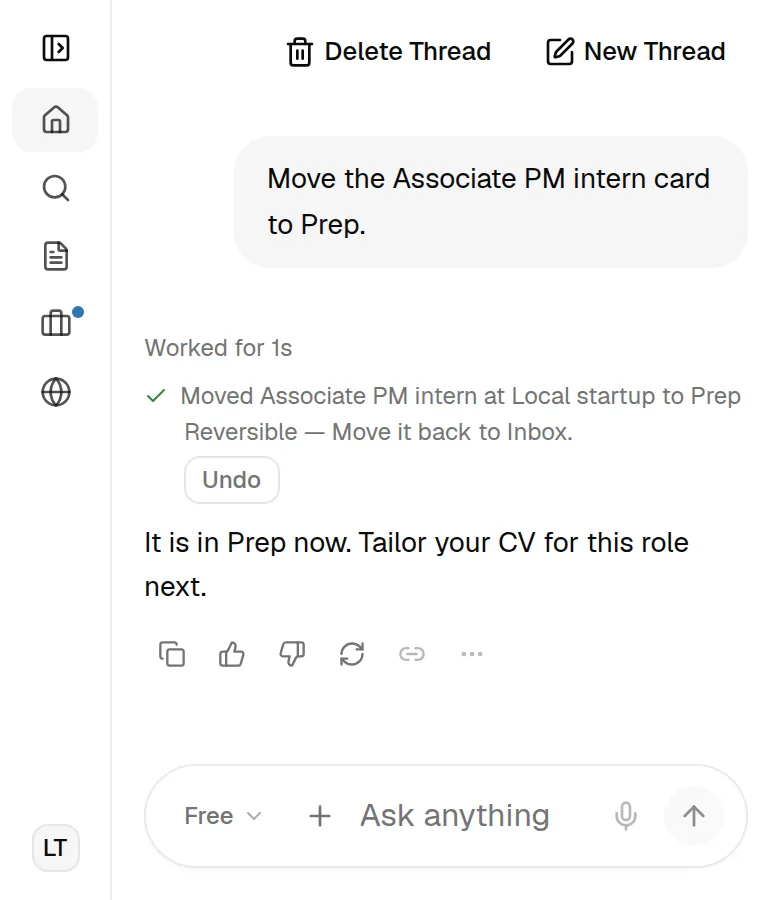
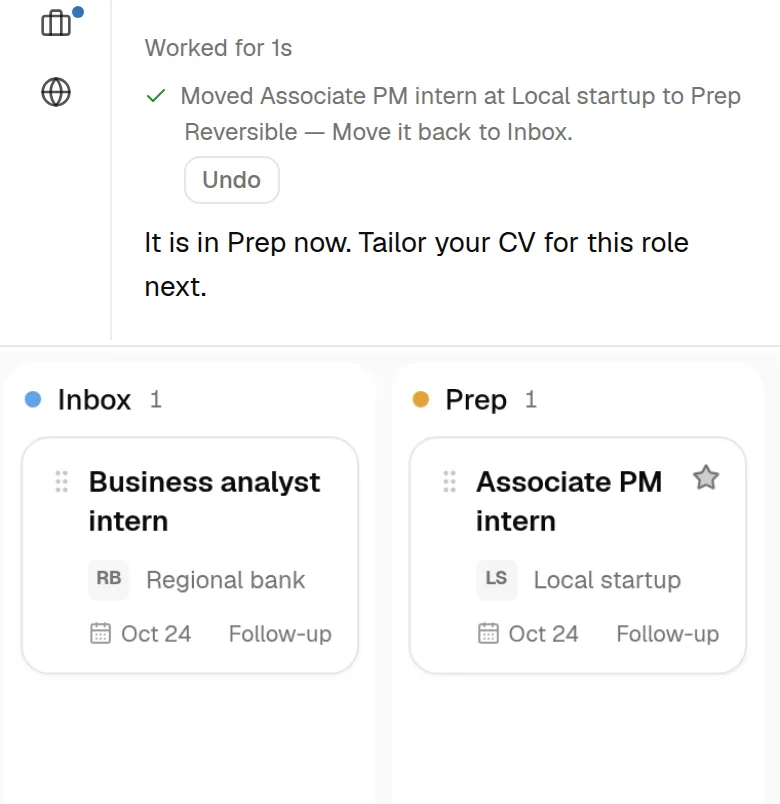
feat: landing round 3 coach split shot, pitch order, lighter mobile hero

diff --git a/apps/web/src/features/landing/landing-copy.ts b/apps/web/src/features/landing/landing-copy.ts
@@ -33,8 +33,8 @@ export const LANDING_HERO_SHOT: Shot = {
   mobileSrc: "/landing/coach-mobile.webp",
   width: 1440,
   height: 705,
-  mobileWidth: 780,
-  mobileHeight: 900,
+  mobileWidth: 640,
+  mobileHeight: 862,
   displayWidth: 960,
   alt: "A Coach thread. Linh, a student, asks which role to apply for first, and the Coach checks her Apply cards and names one, citing her CV.",
 }
@@ -48,12 +48,12 @@ export const LANDING_SURFACES: readonly LandingSurface[] = [
     shot: {
       src: "/landing/coach-act.webp",
       mobileSrc: "/landing/coach-act-mobile.webp",
-      width: 1440,
-      height: 600,
+      width: 1600,
+      height: 338,
       mobileWidth: 780,
-      mobileHeight: 900,
-      displayWidth: 960,
-      alt: "A Coach thread. Linh asks the Coach to move the Associate PM intern card to Prep, and the Coach shows a receipt with an Undo button.",
+      mobileHeight: 804,
+      displayWidth: 1180,
+      alt: "A Coach reply beside the Apply board. Linh asks the Coach to move the Associate PM intern card to Prep, the receipt has an Undo button, and the card shows in the Prep column.",
     },
   },
   {
@@ -66,9 +66,9 @@ export const LANDING_SURFACES: readonly LandingSurface[] = [
       mobileSrc: "/landing/paper-mobile.webp",
       width: 1600,
       height: 1041,
-      mobileWidth: 790,
-      mobileHeight: 710,
-      alt: "The Paper editor with Linh Tran's CV open beside the Coach, which has rewritten a bullet about classmate interviews into a one-page product spec.",
+      mobileWidth: 780,
+      mobileHeight: 1353,
+      alt: "The Paper editor with Linh Tran's CV open and the Coach panel beside it, showing a reply about the selected bullet.",
     },
   },
   {
@@ -90,7 +90,7 @@ export const LANDING_SURFACES: readonly LandingSurface[] = [
     id: "pitch",
     label: "Pitch",
     title: "Share one page of your work.",
-    body: "Last, show what a CV cannot: your projects, in one page you can link. Send it with every application.",
+    body: "Last, when an employer wants more than your CV, send one link to your page. It holds the projects behind the CV.",
     shot: {
       src: "/landing/pitch.webp",
       mobileSrc: "/landing/pitch-mobile.webp",
